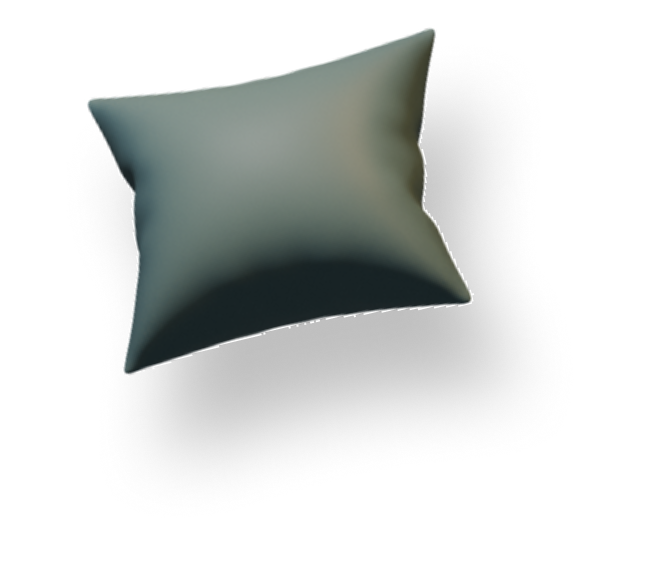
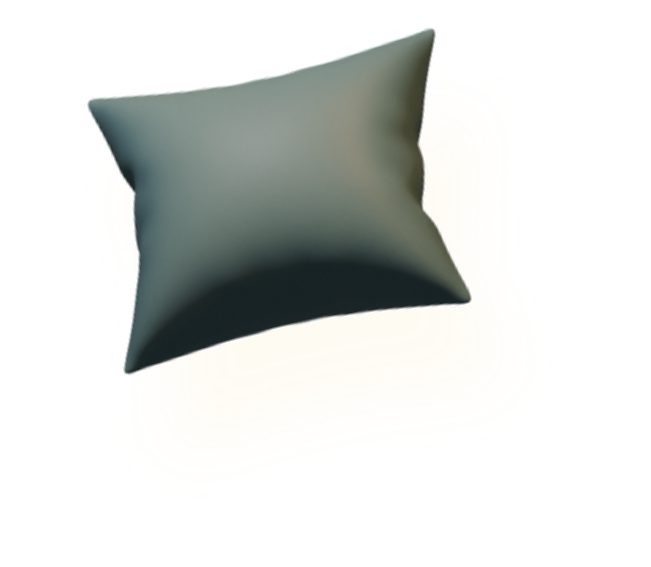
faf

Changed region(s): [[0.2458, 0.2099, 0.768, 0.8095]]

diff --git a/app/globals.css b/app/globals.css
@@ -362,6 +362,7 @@ img {
     linear-gradient(to right, hsla(0, 0%, 95%, 0.02) 1px, transparent 1px);
   z-index: 1;
 }
+
 .g-bg-purple:before {
   opacity: 1;
   background-image: linear-gradient(hsla(100, 100%, 100%, 15%) 1px, transparent 1px),
@@ -384,6 +385,16 @@ img {
   z-index: -1;
   position: fixed;
   background: linear-gradient(180deg, #a4abbb 0%, #eff1f3 100%);
+}
+.g-bg-orange {
+  content: "";
+  width: 100%;
+  height: 100vh;
+  inset: 0;
+  pointer-events: none;
+  z-index: 200;
+  position: fixed;
+  background: linear-gradient(123.18deg, rgba(255, 255, 255, 0.08) -7.52%, rgba(241, 170, 0, 0.08) 68.47%);
 }
 .g-bg-about {
   position: relative;

diff --git a/app/life/layout.tsx b/app/life/layout.tsx
@@ -13,6 +13,7 @@ export default function NewsLayout({ children }: Props) {
   return (
     <>
       <div className="g-bg-purple">
+        <div className="g-bg-orange"></div>
         <Hero title="lifelog" className="text__life" />
         <Sheet>{children}</Sheet>
         <div ref={ref} className="js-observer">
